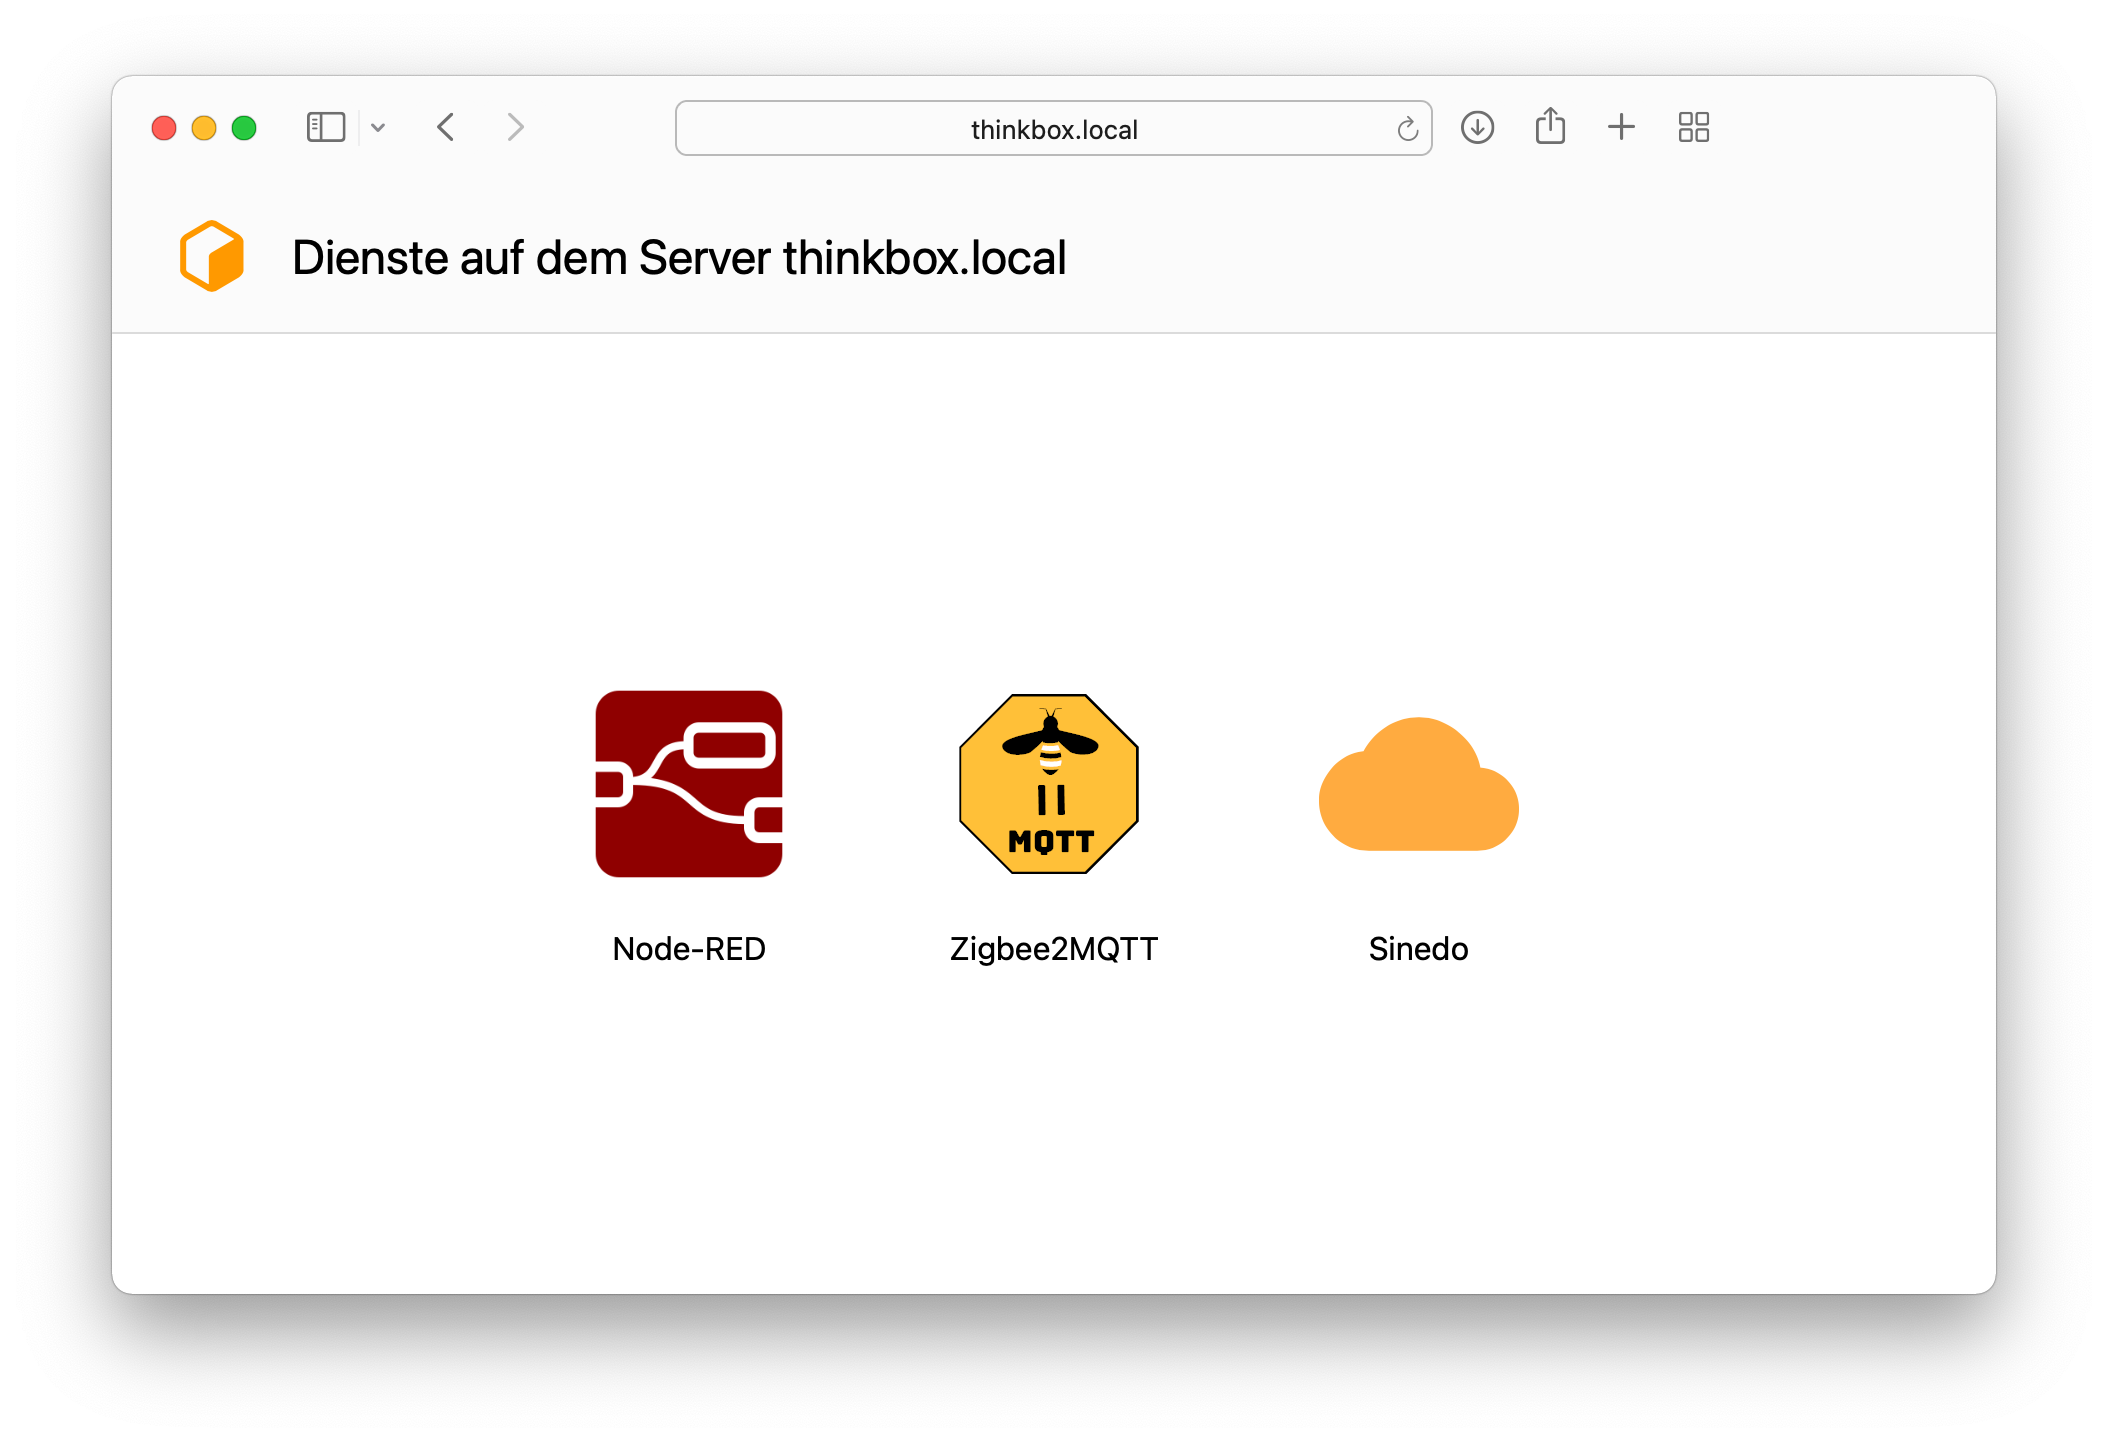
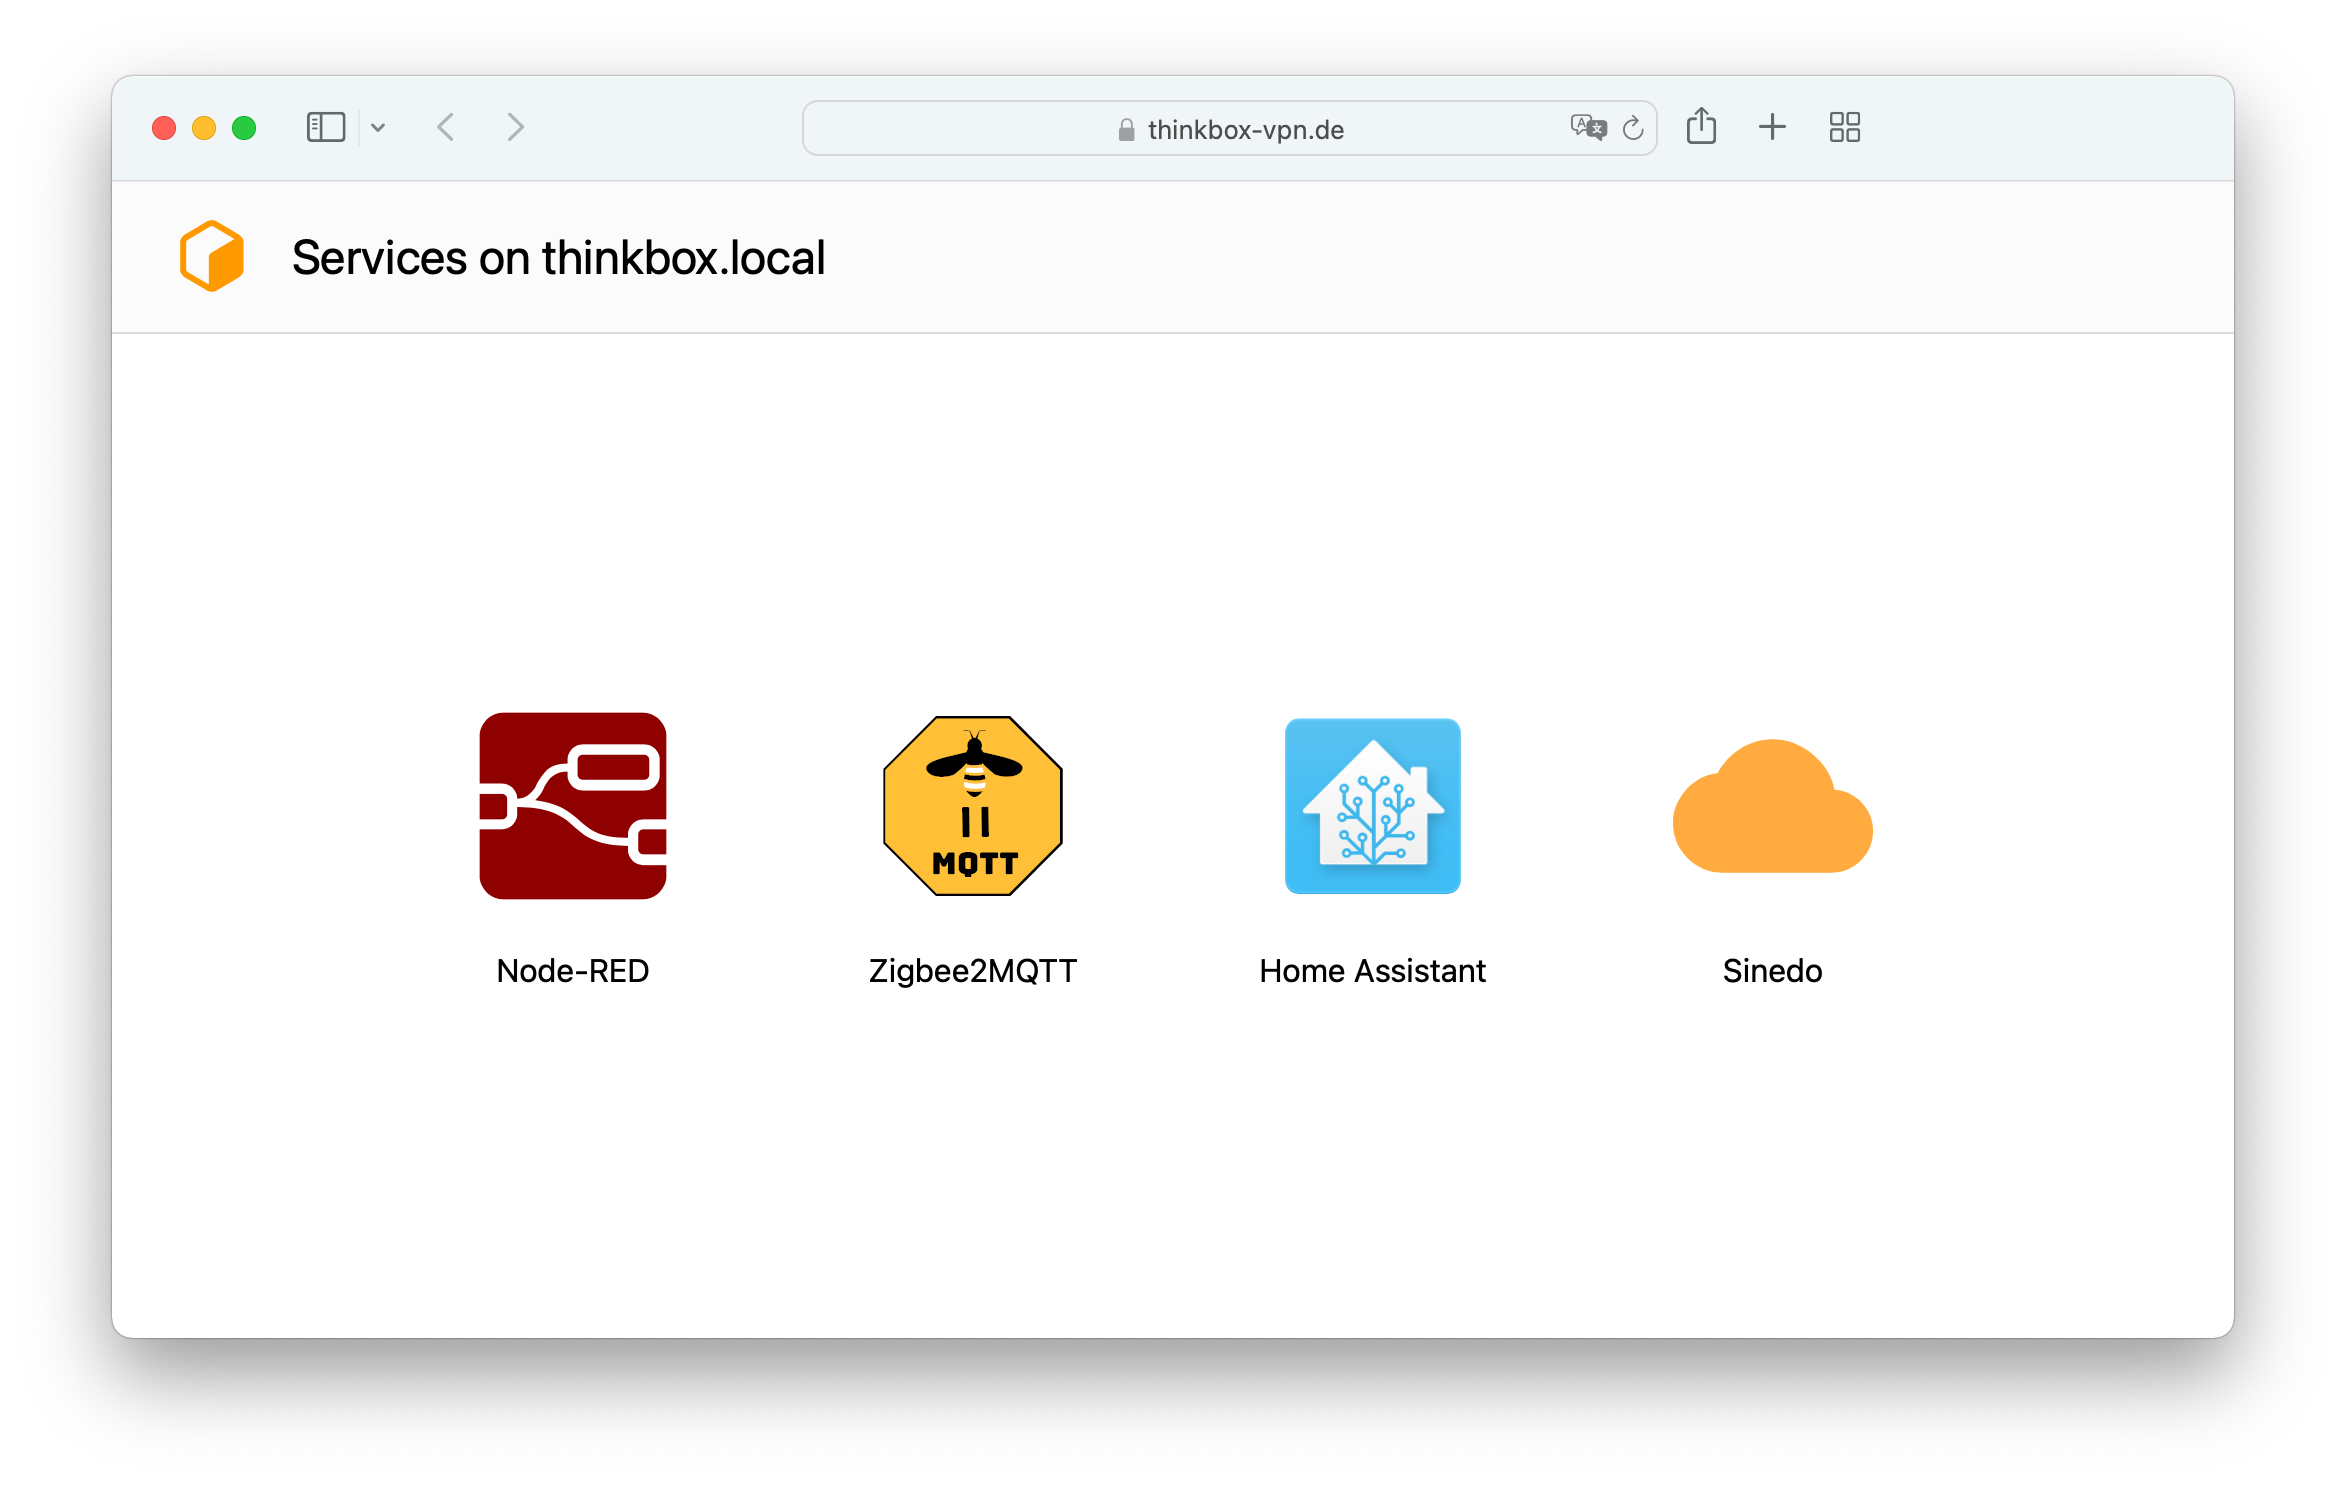
Project files updated.

diff --git a/index.html b/index.html
@@ -5,8 +5,8 @@
     <meta charset="utf-8" />
     <title>Services</title>
     <meta name="viewport" content="width=device-width, initial-scale=1.0, minimum-scale=1.0, maximum-scale=3.0">
-
     <link rel="icon" href="favicon.svg" type="image/svg+xml">
+    <!--  -->
     <link rel="stylesheet" href="style/site.css" type="text/css">
 
     <link rel="apple-touch-icon" type="image/png" href="images/bookmark.png" sizes="512x512" />
@@ -26,7 +26,7 @@
                 style="fill:var(--color-icon);" />
         </svg>
         <h2 class="header__text">Services on thinkbox.local</h2>
-    </div>
+    </div>å
 
     <div class="container">
         <div class="container__item">
@@ -36,22 +36,34 @@
             <p>Node-RED</p>
         </div>
         <div class="container__item">
-            <a href="https://zigbee.thinkbox.local">
+            <a href="https://zigbee.thinkbox-vpn.de">
                 <img height="100" width="100" src="images/icon-zigbee2mqtt.png" />
             </a>
             <p>Zigbee2MQTT</p>
         </div>
         <div class="container__item">
-            <a href="https://haas.thinkbox.local">
+            <a href="https://haas.thinkbox-vpn.de">
                 <img height="100" width="100" src="images/icon-home-assistant.svg" />
             </a>
             <p>Home Assistant</p>
         </div>
-        <div class="container__item">
-            <a href="https://sinedo.thinkbox.local">
+        <!-- <div class="container__item">
+            <a href="https://sinedo.thinkbox-vpn.de">
                 <img height="100" width="100" src="images/icon-sinedo.svg" />
             </a>
             <p>Sinedo</p>
+        </div> -->
+        <div class="container__item">
+            <a href="https://grafana.thinkbox-vpn.de">
+                <img height="100" width="100" src="images/icon-grafana.svg" />
+            </a>
+            <p>Grafana</p>
+        </div>
+        <div class="container__item">
+            <a href="https://portainer.thinkbox-vpn.de">
+                <img height="100" width="100" src="images/icon-portainer.svg" />
+            </a>
+            <p>Portainer</p>
         </div>
     </div>
 </body>
